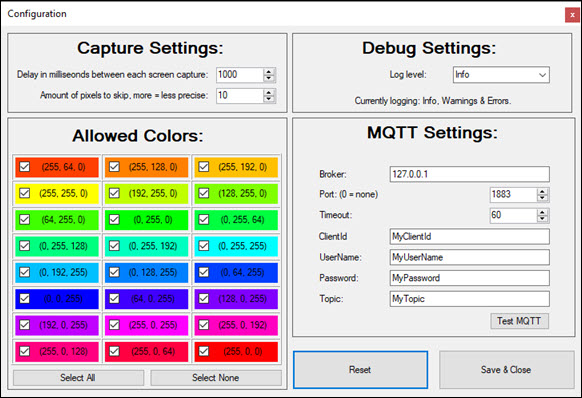
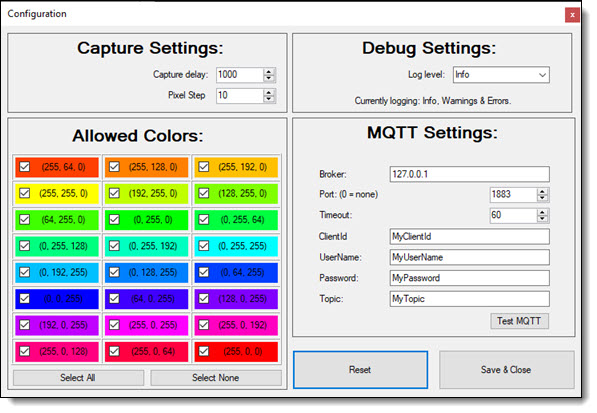
setting view tweaks

diff --git a/Buurmans.AmbiLight.Form/Views/SettingsView.Designer.cs b/Buurmans.AmbiLight.Form/Views/SettingsView.Designer.cs
@@ -60,9 +60,9 @@
             this.CaptureSettingsLabel = new System.Windows.Forms.Label();
             this.DebugSettingsLabel = new System.Windows.Forms.Label();
             this.DebugSettingsPanel = new System.Windows.Forms.Panel();
+            this.LogLevelDescriptionLabel = new System.Windows.Forms.Label();
             this.LogLevelTypeComboBox = new System.Windows.Forms.ComboBox();
             this.LogLevelTypLabel = new System.Windows.Forms.Label();
-            this.LogLevelDescriptionLabel = new System.Windows.Forms.Label();
             ((System.ComponentModel.ISupportInitialize)(this.DelayInMillisecondsNumericUpDown)).BeginInit();
             ((System.ComponentModel.ISupportInitialize)(this.PixelSkipStepsNumericUpDown)).BeginInit();
             ((System.ComponentModel.ISupportInitialize)(this.PortNumericUpDown)).BeginInit();
@@ -96,11 +96,11 @@
             // DelayInMillisecondsLabel
             // 
             this.DelayInMillisecondsLabel.AutoSize = true;
-            this.DelayInMillisecondsLabel.Location = new System.Drawing.Point(8, 44);
+            this.DelayInMillisecondsLabel.Location = new System.Drawing.Point(179, 44);
             this.DelayInMillisecondsLabel.Name = "DelayInMillisecondsLabel";
-            this.DelayInMillisecondsLabel.Size = new System.Drawing.Size(284, 15);
+            this.DelayInMillisecondsLabel.Size = new System.Drawing.Size(75, 13);
             this.DelayInMillisecondsLabel.TabIndex = 3;
-            this.DelayInMillisecondsLabel.Text = "Delay in milliseonds between each screen capture:";
+            this.DelayInMillisecondsLabel.Text = "Capture delay:";
             this.DelayInMillisecondsLabel.TextAlign = System.Drawing.ContentAlignment.MiddleRight;
             // 
             // DelayInMillisecondsNumericUpDown
@@ -145,11 +145,11 @@
             // PixelSkipStepsLabel
             // 
             this.PixelSkipStepsLabel.AutoSize = true;
-            this.PixelSkipStepsLabel.Location = new System.Drawing.Point(37, 70);
+            this.PixelSkipStepsLabel.Location = new System.Drawing.Point(197, 70);
             this.PixelSkipStepsLabel.Name = "PixelSkipStepsLabel";
-            this.PixelSkipStepsLabel.Size = new System.Drawing.Size(251, 15);
+            this.PixelSkipStepsLabel.Size = new System.Drawing.Size(54, 13);
             this.PixelSkipStepsLabel.TabIndex = 5;
-            this.PixelSkipStepsLabel.Text = "Amount of pixels to skip, more = less precise:";
+            this.PixelSkipStepsLabel.Text = "Pixel Step";
             this.PixelSkipStepsLabel.TextAlign = System.Drawing.ContentAlignment.MiddleRight;
             // 
             // ColorSettingsPanel
@@ -206,7 +206,7 @@
             this.BrokerLabel.AutoSize = true;
             this.BrokerLabel.Location = new System.Drawing.Point(30, 63);
             this.BrokerLabel.Name = "BrokerLabel";
-            this.BrokerLabel.Size = new System.Drawing.Size(46, 15);
+            this.BrokerLabel.Size = new System.Drawing.Size(41, 13);
             this.BrokerLabel.TabIndex = 15;
             this.BrokerLabel.Text = "Broker:";
             // 
@@ -215,7 +215,7 @@
             this.ClientIdLabel.AutoSize = true;
             this.ClientIdLabel.Location = new System.Drawing.Point(30, 141);
             this.ClientIdLabel.Name = "ClientIdLabel";
-            this.ClientIdLabel.Size = new System.Drawing.Size(48, 15);
+            this.ClientIdLabel.Size = new System.Drawing.Size(42, 13);
             this.ClientIdLabel.TabIndex = 17;
             this.ClientIdLabel.Text = "ClientId";
             // 
@@ -231,7 +231,7 @@
             this.UserNameLabel.AutoSize = true;
             this.UserNameLabel.Location = new System.Drawing.Point(30, 167);
             this.UserNameLabel.Name = "UserNameLabel";
-            this.UserNameLabel.Size = new System.Drawing.Size(70, 15);
+            this.UserNameLabel.Size = new System.Drawing.Size(60, 13);
             this.UserNameLabel.TabIndex = 19;
             this.UserNameLabel.Text = "UserName:";
             // 
@@ -247,7 +247,7 @@
             this.PasswordLabel.AutoSize = true;
             this.PasswordLabel.Location = new System.Drawing.Point(30, 193);
             this.PasswordLabel.Name = "PasswordLabel";
-            this.PasswordLabel.Size = new System.Drawing.Size(64, 15);
+            this.PasswordLabel.Size = new System.Drawing.Size(56, 13);
             this.PasswordLabel.TabIndex = 21;
             this.PasswordLabel.Text = "Password:";
             // 
@@ -263,7 +263,7 @@
             this.TopicLabel.AutoSize = true;
             this.TopicLabel.Location = new System.Drawing.Point(30, 219);
             this.TopicLabel.Name = "TopicLabel";
-            this.TopicLabel.Size = new System.Drawing.Size(40, 15);
+            this.TopicLabel.Size = new System.Drawing.Size(37, 13);
             this.TopicLabel.TabIndex = 23;
             this.TopicLabel.Text = "Topic:";
             // 
@@ -291,7 +291,7 @@
             this.PortLabel.AutoSize = true;
             this.PortLabel.Location = new System.Drawing.Point(30, 88);
             this.PortLabel.Name = "PortLabel";
-            this.PortLabel.Size = new System.Drawing.Size(91, 15);
+            this.PortLabel.Size = new System.Drawing.Size(80, 13);
             this.PortLabel.TabIndex = 26;
             this.PortLabel.Text = "Port: (0 = none)";
             // 
@@ -300,7 +300,7 @@
             this.TimeoutLabel.AutoSize = true;
             this.TimeoutLabel.Location = new System.Drawing.Point(30, 114);
             this.TimeoutLabel.Name = "TimeoutLabel";
-            this.TimeoutLabel.Size = new System.Drawing.Size(55, 15);
+            this.TimeoutLabel.Size = new System.Drawing.Size(48, 13);
             this.TimeoutLabel.TabIndex = 28;
             this.TimeoutLabel.Text = "Timeout:";
             // 
@@ -366,7 +366,7 @@
             this.MqttSettingsHeaderLabel.Font = new System.Drawing.Font("Microsoft Sans Serif", 15.75F, System.Drawing.FontStyle.Bold, System.Drawing.GraphicsUnit.Point, ((byte)(0)));
             this.MqttSettingsHeaderLabel.Location = new System.Drawing.Point(87, 5);
             this.MqttSettingsHeaderLabel.Name = "MqttSettingsHeaderLabel";
-            this.MqttSettingsHeaderLabel.Size = new System.Drawing.Size(219, 31);
+            this.MqttSettingsHeaderLabel.Size = new System.Drawing.Size(176, 25);
             this.MqttSettingsHeaderLabel.TabIndex = 29;
             this.MqttSettingsHeaderLabel.Text = "MQTT Settings:";
             this.MqttSettingsHeaderLabel.TextAlign = System.Drawing.ContentAlignment.MiddleCenter;
@@ -389,7 +389,7 @@
             this.ColorSettingLabel.Font = new System.Drawing.Font("Microsoft Sans Serif", 15.75F, System.Drawing.FontStyle.Bold, System.Drawing.GraphicsUnit.Point, ((byte)(0)));
             this.ColorSettingLabel.Location = new System.Drawing.Point(75, 9);
             this.ColorSettingLabel.Name = "ColorSettingLabel";
-            this.ColorSettingLabel.Size = new System.Drawing.Size(218, 31);
+            this.ColorSettingLabel.Size = new System.Drawing.Size(176, 25);
             this.ColorSettingLabel.TabIndex = 31;
             this.ColorSettingLabel.Text = "Allowed Colors:";
             this.ColorSettingLabel.TextAlign = System.Drawing.ContentAlignment.MiddleCenter;
@@ -413,7 +413,7 @@
             this.CaptureSettingsLabel.Font = new System.Drawing.Font("Microsoft Sans Serif", 15.75F, System.Drawing.FontStyle.Bold, System.Drawing.GraphicsUnit.Point, ((byte)(0)));
             this.CaptureSettingsLabel.Location = new System.Drawing.Point(81, 5);
             this.CaptureSettingsLabel.Name = "CaptureSettingsLabel";
-            this.CaptureSettingsLabel.Size = new System.Drawing.Size(242, 31);
+            this.CaptureSettingsLabel.Size = new System.Drawing.Size(195, 25);
             this.CaptureSettingsLabel.TabIndex = 31;
             this.CaptureSettingsLabel.Text = "Capture Settings:";
             this.CaptureSettingsLabel.TextAlign = System.Drawing.ContentAlignment.MiddleCenter;
@@ -424,7 +424,7 @@
             this.DebugSettingsLabel.Font = new System.Drawing.Font("Microsoft Sans Serif", 15.75F, System.Drawing.FontStyle.Bold, System.Drawing.GraphicsUnit.Point, ((byte)(0)));
             this.DebugSettingsLabel.Location = new System.Drawing.Point(81, 5);
             this.DebugSettingsLabel.Name = "DebugSettingsLabel";
-            this.DebugSettingsLabel.Size = new System.Drawing.Size(223, 31);
+            this.DebugSettingsLabel.Size = new System.Drawing.Size(180, 25);
             this.DebugSettingsLabel.TabIndex = 31;
             this.DebugSettingsLabel.Text = "Debug Settings:";
             this.DebugSettingsLabel.TextAlign = System.Drawing.ContentAlignment.MiddleCenter;
@@ -441,6 +441,15 @@
             this.DebugSettingsPanel.Size = new System.Drawing.Size(350, 100);
             this.DebugSettingsPanel.TabIndex = 32;
             // 
+            // LogLevelDescriptionLabel
+            // 
+            this.LogLevelDescriptionLabel.Location = new System.Drawing.Point(3, 71);
+            this.LogLevelDescriptionLabel.Name = "LogLevelDescriptionLabel";
+            this.LogLevelDescriptionLabel.Size = new System.Drawing.Size(346, 25);
+            this.LogLevelDescriptionLabel.TabIndex = 33;
+            this.LogLevelDescriptionLabel.Text = "Currently Logging: Info, warnings && Errors";
+            this.LogLevelDescriptionLabel.TextAlign = System.Drawing.ContentAlignment.MiddleCenter;
+            // 
             // LogLevelTypeComboBox
             // 
             this.LogLevelTypeComboBox.FormattingEnabled = true;
@@ -453,21 +462,12 @@
             // LogLevelTypLabel
             // 
             this.LogLevelTypLabel.AutoSize = true;
-            this.LogLevelTypLabel.Location = new System.Drawing.Point(118, 44);
+            this.LogLevelTypLabel.Location = new System.Drawing.Point(141, 44);
             this.LogLevelTypLabel.Name = "LogLevelTypLabel";
-            this.LogLevelTypLabel.Size = new System.Drawing.Size(59, 15);
+            this.LogLevelTypLabel.Size = new System.Drawing.Size(53, 13);
             this.LogLevelTypLabel.TabIndex = 3;
             this.LogLevelTypLabel.Text = "Log level:";
             this.LogLevelTypLabel.TextAlign = System.Drawing.ContentAlignment.MiddleRight;
-            // 
-            // LogLevelDescriptionLabel
-            // 
-            this.LogLevelDescriptionLabel.Location = new System.Drawing.Point(3, 71);
-            this.LogLevelDescriptionLabel.Name = "LogLevelDescriptionLabel";
-            this.LogLevelDescriptionLabel.Size = new System.Drawing.Size(346, 25);
-            this.LogLevelDescriptionLabel.TabIndex = 33;
-            this.LogLevelDescriptionLabel.Text = "Currently Logging: Info, warnings && Errors";
-            this.LogLevelDescriptionLabel.TextAlign = System.Drawing.ContentAlignment.MiddleCenter;
             // 
             // SettingsView
             // 
